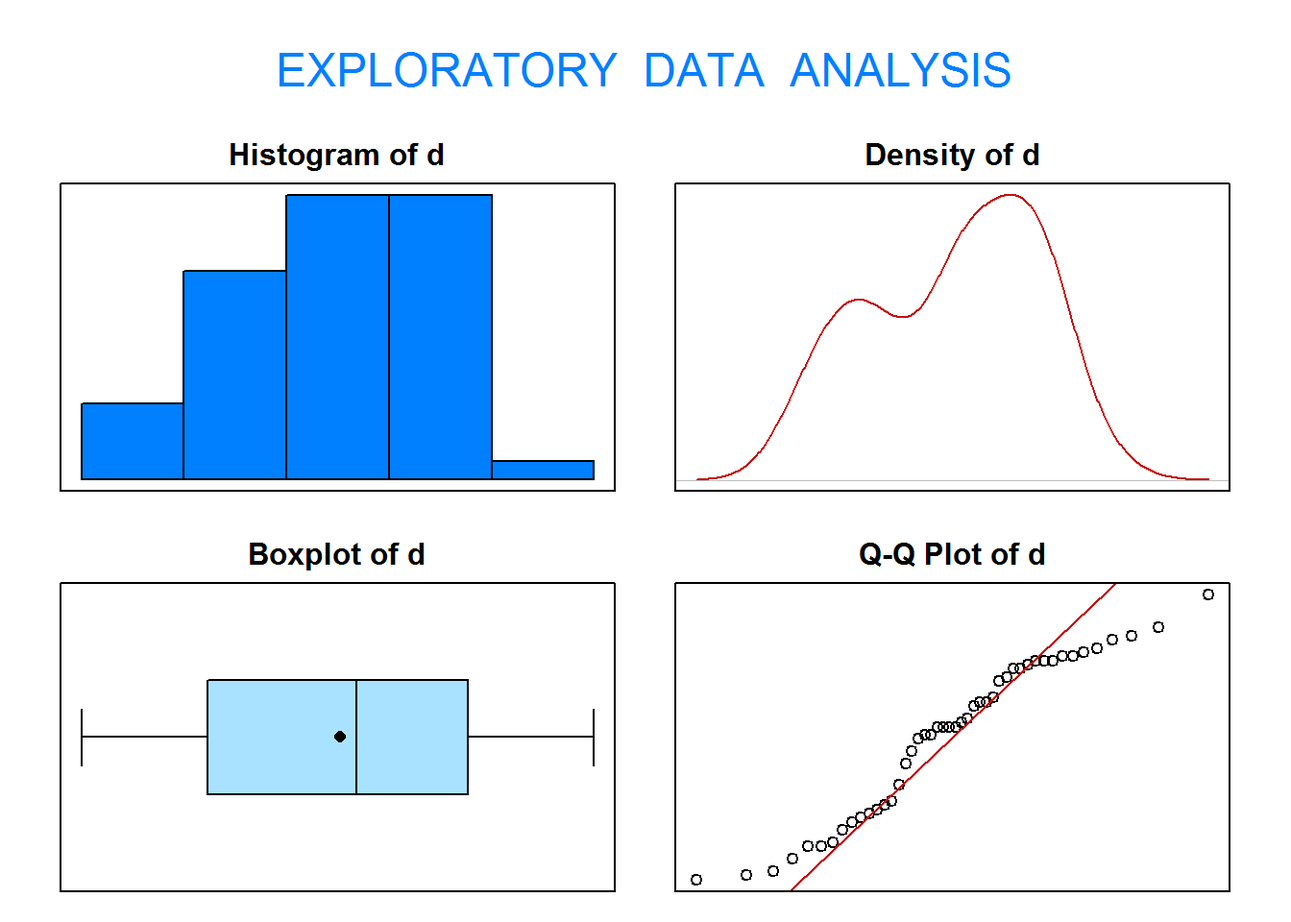
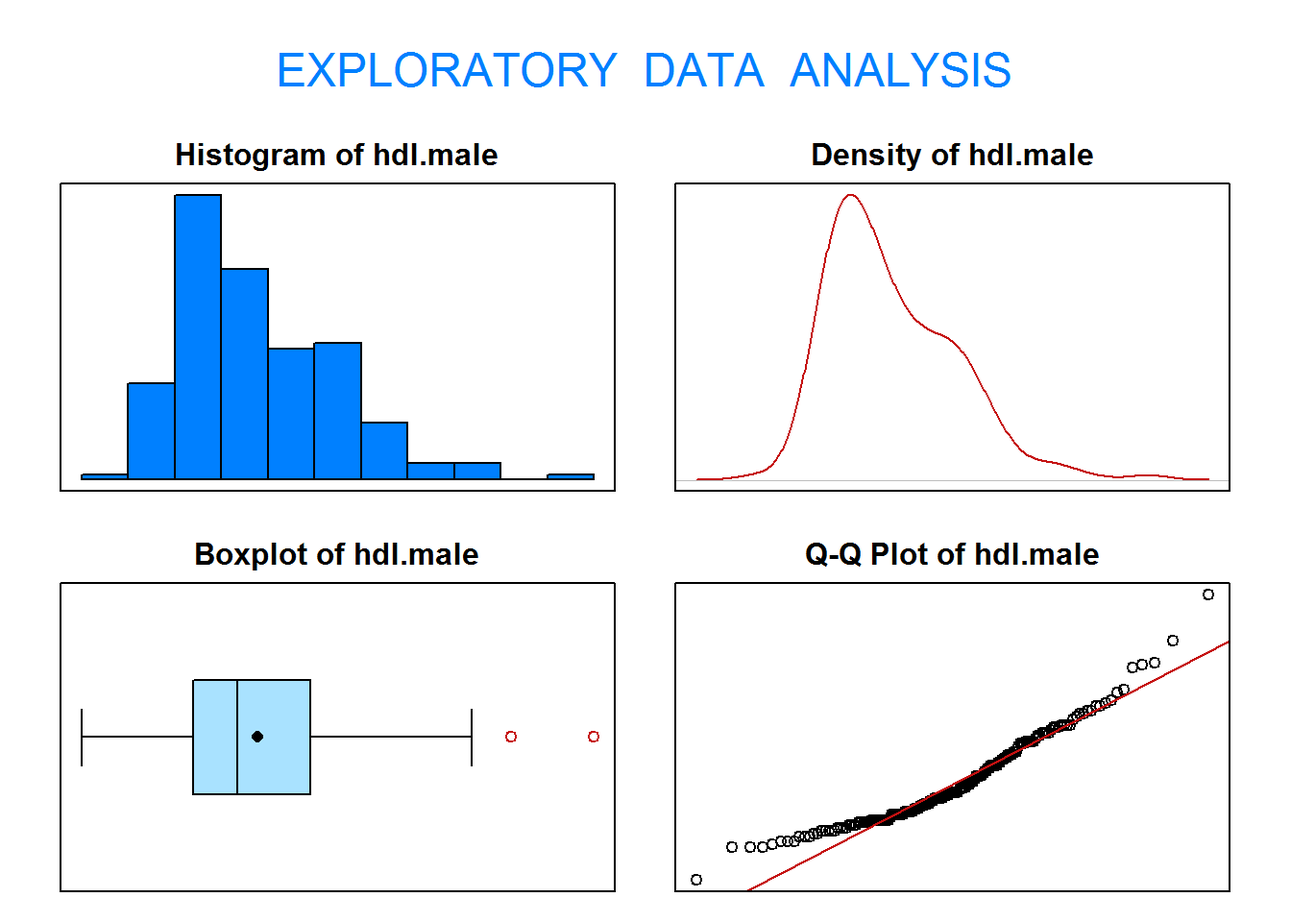
Soluciones práctica 4

diff --git a/docs/Practica4.html b/docs/Practica4.html
@@ -167,6 +167,11 @@ pre > code.sourceCode > span > a:first-child::before { text-decoration: underlin
   <li><a href="#considera-el-fichero-phenyl-de-la-libreria-paswr2.-contrasta-al-nivel-de-significación-alpha0.05-si-existen-diferencias-en-los-niveles-medios-de-la-coenzima-q10-en-el-momento-de-comenzar-el-estudio-variable-q10.1-y-al-finalizar-el-estudio-variable-q10.4." id="toc-considera-el-fichero-phenyl-de-la-libreria-paswr2.-contrasta-al-nivel-de-significación-alpha0.05-si-existen-diferencias-en-los-niveles-medios-de-la-coenzima-q10-en-el-momento-de-comenzar-el-estudio-variable-q10.1-y-al-finalizar-el-estudio-variable-q10.4." class="nav-link" data-scroll-target="#considera-el-fichero-phenyl-de-la-libreria-paswr2.-contrasta-al-nivel-de-significación-alpha0.05-si-existen-diferencias-en-los-niveles-medios-de-la-coenzima-q10-en-el-momento-de-comenzar-el-estudio-variable-q10.1-y-al-finalizar-el-estudio-variable-q10.4.">1.3. Considera el fichero <code>PHENYL</code> de la libreria <code>PASWR2</code>. Contrasta al nivel de significación <span class="math inline">\(\alpha=0.05\)</span> si existen diferencias en los niveles medios de la coenzima Q10 en el momento de comenzar el estudio (variable <code>Q10.1</code>) y al finalizar el estudio (variable <code>Q10.4</code>).</a></li>
   <li><a href="#considera-el-fichero-diabetes.-crea-otro-fichero-llamado-diabetes.mujeres-que-contenga-únicamente-a-las-mujeres-de-la-muestra." id="toc-considera-el-fichero-diabetes.-crea-otro-fichero-llamado-diabetes.mujeres-que-contenga-únicamente-a-las-mujeres-de-la-muestra." class="nav-link" data-scroll-target="#considera-el-fichero-diabetes.-crea-otro-fichero-llamado-diabetes.mujeres-que-contenga-únicamente-a-las-mujeres-de-la-muestra.">1.4 Considera el fichero <code>diabetes</code>. Crea otro fichero llamado <code>diabetes.mujeres</code> que contenga únicamente a las mujeres de la muestra.</a></li>
   </ul></li>
+  <li><a href="#para-entregar" id="toc-para-entregar" class="nav-link" data-scroll-target="#para-entregar">2. Para entregar</a>
+  <ul class="collapse">
+  <li><a href="#contrasta-al-nivel-de-significación-alpha0.05-si-el-peso-medio-de-los-hombres-es-al-menos-4-libras-pounds-superior-que-el-peso-medio-de-las-mujeres." id="toc-contrasta-al-nivel-de-significación-alpha0.05-si-el-peso-medio-de-los-hombres-es-al-menos-4-libras-pounds-superior-que-el-peso-medio-de-las-mujeres." class="nav-link" data-scroll-target="#contrasta-al-nivel-de-significación-alpha0.05-si-el-peso-medio-de-los-hombres-es-al-menos-4-libras-pounds-superior-que-el-peso-medio-de-las-mujeres.">2.1. Contrasta al nivel de significación <span class="math inline">\(\alpha=0.05\)</span> si el peso medio de los hombres es al menos 4 libras (pounds) superior que el peso medio de las mujeres.</a></li>
+  <li><a href="#considera-el-fichero-diabetes.-crea-otro-fichero-llamado-diabetes.b-que-contenga-únicamente-a-los-habitantes-del-condado-de-buckingham." id="toc-considera-el-fichero-diabetes.-crea-otro-fichero-llamado-diabetes.b-que-contenga-únicamente-a-los-habitantes-del-condado-de-buckingham." class="nav-link" data-scroll-target="#considera-el-fichero-diabetes.-crea-otro-fichero-llamado-diabetes.b-que-contenga-únicamente-a-los-habitantes-del-condado-de-buckingham.">2.2 Considera el fichero <code>diabetes</code>. Crea otro fichero llamado <code>diabetes.B</code> que contenga únicamente a los habitantes del condado de Buckingham.</a></li>
+  </ul></li>
   </ul>
 </nav>
     </div>
@@ -290,8 +295,10 @@ pre > code.sourceCode > span > a:first-child::before { text-decoration: underlin
 </table>
 <p>En primer lugar, debemos leer el fichero <code>diabetes</code> en R:</p>
 <div class="cell">
-<div class="sourceCode cell-code" id="cb1"><pre class="sourceCode r code-with-copy"><code class="sourceCode r"><span id="cb1-1"><a href="#cb1-1" aria-hidden="true" tabindex="-1"></a>diabetes <span class="ot">&lt;-</span> <span class="fu">read.table</span>(<span class="st">"diabetes.txt"</span>, <span class="at">header=</span><span class="cn">TRUE</span>, <span class="at">sep=</span><span class="st">""</span>, <span class="at">dec=</span><span class="st">"."</span>, <span class="at">stringsAsFactors=</span><span class="cn">TRUE</span>)</span>
-<span id="cb1-2"><a href="#cb1-2" aria-hidden="true" tabindex="-1"></a><span class="fu">head</span>(diabetes)</span></code><button title="Copy to Clipboard" class="code-copy-button"><i class="bi"></i></button></pre></div>
+<div class="sourceCode cell-code" id="cb1"><pre class="sourceCode r code-with-copy"><code class="sourceCode r"><span id="cb1-1"><a href="#cb1-1" aria-hidden="true" tabindex="-1"></a><span class="fu">library</span>(PASWR2)</span>
+<span id="cb1-2"><a href="#cb1-2" aria-hidden="true" tabindex="-1"></a></span>
+<span id="cb1-3"><a href="#cb1-3" aria-hidden="true" tabindex="-1"></a>diabetes <span class="ot">&lt;-</span> <span class="fu">read.table</span>(<span class="st">"diabetes.txt"</span>, <span class="at">header=</span><span class="cn">TRUE</span>, <span class="at">sep=</span><span class="st">""</span>, <span class="at">dec=</span><span class="st">"."</span>, <span class="at">stringsAsFactors=</span><span class="cn">TRUE</span>)</span>
+<span id="cb1-4"><a href="#cb1-4" aria-hidden="true" tabindex="-1"></a><span class="fu">head</span>(diabetes)</span></code><button title="Copy to Clipboard" class="code-copy-button"><i class="bi"></i></button></pre></div>
 <div class="cell-output cell-output-stdout">
 <pre><code>    id chol stab.glu hdl ratio glyhb   location age gender height weight  frame
 1 1000  203       82  56   3.6  4.31 Buckingham  46 female     62    121 medium
@@ -314,23 +321,268 @@ pre > code.sourceCode > span > a:first-child::before { text-decoration: underlin
 <h1>1. Pruebas no-paramétricas</h1>
 <section id="puede-asumirse-que-la-variable-hdl-en-mujeres-sigue-una-distribución-normal-contrasta-al-nivel-de-significación-alpha0.05-si-la-mediana-de-la-variable-hdl-en-mujeres-es-superior-a-47." class="level3">
 <h3 class="anchored" data-anchor-id="puede-asumirse-que-la-variable-hdl-en-mujeres-sigue-una-distribución-normal-contrasta-al-nivel-de-significación-alpha0.05-si-la-mediana-de-la-variable-hdl-en-mujeres-es-superior-a-47.">1.1. ¿Puede asumirse que la variable <code>hdl</code> en mujeres sigue una distribución normal? Contrasta al nivel de significación <span class="math inline">\(\alpha=0.05\)</span> si la mediana de la variable <code>hdl</code> en mujeres es superior a 47.</h3>
+<p>Definimos la variable <span class="math display">\[X=\mbox{"Nivel de 'hdl'  en mujeres"}\]</span></p>
+<div class="cell">
+<div class="sourceCode cell-code" id="cb3"><pre class="sourceCode r code-with-copy"><code class="sourceCode r"><span id="cb3-1"><a href="#cb3-1" aria-hidden="true" tabindex="-1"></a><span class="do">## Seleccionamos los datos requeridos ##</span></span>
+<span id="cb3-2"><a href="#cb3-2" aria-hidden="true" tabindex="-1"></a>pos <span class="ot">&lt;-</span> <span class="fu">which</span>(diabetes<span class="sc">$</span>gender<span class="sc">==</span><span class="st">"female"</span>)</span>
+<span id="cb3-3"><a href="#cb3-3" aria-hidden="true" tabindex="-1"></a>hdl.female <span class="ot">&lt;-</span> diabetes<span class="sc">$</span>hdl[pos]</span>
+<span id="cb3-4"><a href="#cb3-4" aria-hidden="true" tabindex="-1"></a></span>
+<span id="cb3-5"><a href="#cb3-5" aria-hidden="true" tabindex="-1"></a><span class="do">## Comprobamos la condición de normalidad ##</span></span>
+<span id="cb3-6"><a href="#cb3-6" aria-hidden="true" tabindex="-1"></a><span class="fu">eda</span>(hdl.female)</span></code><button title="Copy to Clipboard" class="code-copy-button"><i class="bi"></i></button></pre></div>
+<div class="cell-output-display">
+<p><img src="Practica4_files/figure-html/unnamed-chunk-2-1.png" class="img-fluid" width="672"></p>
+</div>
+<div class="cell-output cell-output-stdout">
+<pre><code>Size (n)  Missing  Minimum   1st Qu     Mean   Median   TrMean   3rd Qu 
+ 234.000    0.000   14.000   41.000   52.111   47.500   50.825   59.000 
+     Max    Stdev      Var  SE Mean   I.Q.R.    Range Kurtosis Skewness 
+ 120.000   17.255  297.739    1.128   18.000  106.000    2.443    1.390 
+SW p-val 
+   0.000 </code></pre>
+</div>
+</div>
+<p>Realizamos el test de Wilcoxon (<span class="math inline">\(\alpha=0.05\)</span>): <span class="math display">\[\begin{eqnarray*}
+H_0: \, \psi=47 \\
+H_1: \, \psi&gt;47 \\
+\end{eqnarray*}\]</span></p>
+<div class="cell">
+<div class="sourceCode cell-code" id="cb5"><pre class="sourceCode r code-with-copy"><code class="sourceCode r"><span id="cb5-1"><a href="#cb5-1" aria-hidden="true" tabindex="-1"></a><span class="fu">wilcox.test</span>(hdl.female, <span class="at">mu=</span><span class="dv">47</span>, <span class="at">alternative=</span><span class="st">"greater"</span>)</span></code><button title="Copy to Clipboard" class="code-copy-button"><i class="bi"></i></button></pre></div>
+<div class="cell-output cell-output-stdout">
+<pre><code>
+    Wilcoxon signed rank test with continuity correction
+
+data:  hdl.female
+V = 16282, p-value = 0.001492
+alternative hypothesis: true location is greater than 47</code></pre>
+</div>
+</div>
 </section>
 <section id="contrasta-al-nivel-de-significación-alpha0.05-si-existen-diferencias-entre-los-niveles-de-hdl-en-hombres-y-en-mujeres.-comprueba-si-puede-asumirse-normalidad-y-realiza-el-contraste-adecuado." class="level3">
 <h3 class="anchored" data-anchor-id="contrasta-al-nivel-de-significación-alpha0.05-si-existen-diferencias-entre-los-niveles-de-hdl-en-hombres-y-en-mujeres.-comprueba-si-puede-asumirse-normalidad-y-realiza-el-contraste-adecuado.">1.2. Contrasta al nivel de significación <span class="math inline">\(\alpha=0.05\)</span> si existen diferencias entre los niveles de <code>hdl</code> en hombres y en mujeres. Comprueba si puede asumirse normalidad y realiza el contraste adecuado.</h3>
+<p>Definimos las variables <span class="math display">\[X=\mbox{"Nivel de 'hdl'  en mujeres"}\]</span> <span class="math display">\[Y=\mbox{"Nivel de 'hdl'  en hombres"}\]</span></p>
+<div class="cell">
+<div class="sourceCode cell-code" id="cb7"><pre class="sourceCode r code-with-copy"><code class="sourceCode r"><span id="cb7-1"><a href="#cb7-1" aria-hidden="true" tabindex="-1"></a><span class="do">## Seleccionamos los datos requeridos ##</span></span>
+<span id="cb7-2"><a href="#cb7-2" aria-hidden="true" tabindex="-1"></a>pos1 <span class="ot">&lt;-</span> <span class="fu">which</span>(diabetes<span class="sc">$</span>gender<span class="sc">==</span><span class="st">"male"</span>)</span>
+<span id="cb7-3"><a href="#cb7-3" aria-hidden="true" tabindex="-1"></a>hdl.male <span class="ot">&lt;-</span> diabetes<span class="sc">$</span>hdl[pos1]</span>
+<span id="cb7-4"><a href="#cb7-4" aria-hidden="true" tabindex="-1"></a></span>
+<span id="cb7-5"><a href="#cb7-5" aria-hidden="true" tabindex="-1"></a>pos2 <span class="ot">&lt;-</span> <span class="fu">which</span>(diabetes<span class="sc">$</span>gender<span class="sc">==</span><span class="st">"female"</span>)</span>
+<span id="cb7-6"><a href="#cb7-6" aria-hidden="true" tabindex="-1"></a>hdl.female <span class="ot">&lt;-</span> diabetes<span class="sc">$</span>hdl[pos2]</span>
+<span id="cb7-7"><a href="#cb7-7" aria-hidden="true" tabindex="-1"></a></span>
+<span id="cb7-8"><a href="#cb7-8" aria-hidden="true" tabindex="-1"></a><span class="co"># Comprobamos la condición de normalidad</span></span>
+<span id="cb7-9"><a href="#cb7-9" aria-hidden="true" tabindex="-1"></a><span class="fu">eda</span>(hdl.male)</span></code><button title="Copy to Clipboard" class="code-copy-button"><i class="bi"></i></button></pre></div>
+<div class="cell-output-display">
+<p><img src="Practica4_files/figure-html/unnamed-chunk-4-1.png" class="img-fluid" width="672"></p>
+</div>
+<div class="cell-output cell-output-stdout">
+<pre><code>Size (n)  Missing  Minimum   1st Qu     Mean   Median   TrMean   3rd Qu 
+ 169.000    0.000   12.000   35.000   48.139   44.000   47.173   59.000 
+     Max    Stdev      Var  SE Mean   I.Q.R.    Range Kurtosis Skewness 
+ 117.000   17.004  289.141    1.308   24.000  105.000    1.001    0.934 
+SW p-val 
+   0.000 </code></pre>
+</div>
+<div class="sourceCode cell-code" id="cb9"><pre class="sourceCode r code-with-copy"><code class="sourceCode r"><span id="cb9-1"><a href="#cb9-1" aria-hidden="true" tabindex="-1"></a><span class="fu">eda</span>(hdl.female)</span></code><button title="Copy to Clipboard" class="code-copy-button"><i class="bi"></i></button></pre></div>
+<div class="cell-output-display">
+<p><img src="Practica4_files/figure-html/unnamed-chunk-4-2.png" class="img-fluid" width="672"></p>
+</div>
+<div class="cell-output cell-output-stdout">
+<pre><code>Size (n)  Missing  Minimum   1st Qu     Mean   Median   TrMean   3rd Qu 
+ 234.000    0.000   14.000   41.000   52.111   47.500   50.825   59.000 
+     Max    Stdev      Var  SE Mean   I.Q.R.    Range Kurtosis Skewness 
+ 120.000   17.255  297.739    1.128   18.000  106.000    2.443    1.390 
+SW p-val 
+   0.000 </code></pre>
+</div>
+</div>
+<p>Realizamos el test de Mann-Withney (<span class="math inline">\(\alpha=0.05\)</span>): <span class="math display">\[\begin{eqnarray*}
+H_0: \, \psi_X-\psi_Y=0 \\
+H_1: \, \psi_X-\psi_Y \neq 0 \\
+\end{eqnarray*}\]</span></p>
+<div class="cell">
+<div class="sourceCode cell-code" id="cb11"><pre class="sourceCode r code-with-copy"><code class="sourceCode r"><span id="cb11-1"><a href="#cb11-1" aria-hidden="true" tabindex="-1"></a><span class="fu">wilcox.test</span>(hdl.male, hdl.female, <span class="at">mu=</span><span class="dv">0</span>, <span class="at">alternative=</span><span class="st">"two.sided"</span>)</span></code><button title="Copy to Clipboard" class="code-copy-button"><i class="bi"></i></button></pre></div>
+<div class="cell-output cell-output-stdout">
+<pre><code>
+    Wilcoxon rank sum test with continuity correction
+
+data:  hdl.male and hdl.female
+W = 16630, p-value = 0.006439
+alternative hypothesis: true location shift is not equal to 0</code></pre>
+</div>
+</div>
 </section>
 <section id="considera-el-fichero-phenyl-de-la-libreria-paswr2.-contrasta-al-nivel-de-significación-alpha0.05-si-existen-diferencias-en-los-niveles-medios-de-la-coenzima-q10-en-el-momento-de-comenzar-el-estudio-variable-q10.1-y-al-finalizar-el-estudio-variable-q10.4." class="level3">
 <h3 class="anchored" data-anchor-id="considera-el-fichero-phenyl-de-la-libreria-paswr2.-contrasta-al-nivel-de-significación-alpha0.05-si-existen-diferencias-en-los-niveles-medios-de-la-coenzima-q10-en-el-momento-de-comenzar-el-estudio-variable-q10.1-y-al-finalizar-el-estudio-variable-q10.4.">1.3. Considera el fichero <code>PHENYL</code> de la libreria <code>PASWR2</code>. Contrasta al nivel de significación <span class="math inline">\(\alpha=0.05\)</span> si existen diferencias en los niveles medios de la coenzima Q10 en el momento de comenzar el estudio (variable <code>Q10.1</code>) y al finalizar el estudio (variable <code>Q10.4</code>).</h3>
+<p>Sean <span class="math display">\[X=\mbox{"Nivel de la coenzima Q10 al comienzo del estudio"}\]</span> <span class="math display">\[Y=\mbox{"Nivel de la coenzima Q10 al final del estudio"}\]</span></p>
+<div class="cell">
+<div class="sourceCode cell-code" id="cb13"><pre class="sourceCode r code-with-copy"><code class="sourceCode r"><span id="cb13-1"><a href="#cb13-1" aria-hidden="true" tabindex="-1"></a><span class="fu">head</span>(PHENYL)</span></code><button title="Copy to Clipboard" class="code-copy-button"><i class="bi"></i></button></pre></div>
+<div class="cell-output cell-output-stdout">
+<pre><code>  Q10.1 Q10.2 Q10.3 Q10.4
+1  0.39  0.56  0.65  0.45
+2  0.33  0.32  0.44  0.37
+3  0.59  0.58  0.38  0.55
+4  0.86  0.51  0.53  0.47
+5  0.33  0.29  0.29  0.28
+6  0.49  0.37  0.33  0.39</code></pre>
+</div>
+<div class="sourceCode cell-code" id="cb15"><pre class="sourceCode r code-with-copy"><code class="sourceCode r"><span id="cb15-1"><a href="#cb15-1" aria-hidden="true" tabindex="-1"></a><span class="co"># NOTA: Se tratan de muestran emparejadas (mismos individuos)</span></span>
+<span id="cb15-2"><a href="#cb15-2" aria-hidden="true" tabindex="-1"></a>d <span class="ot">&lt;-</span> PHENYL<span class="sc">$</span>Q10<span class="fl">.1</span><span class="sc">-</span>PHENYL<span class="sc">$</span>Q10<span class="fl">.4</span></span>
+<span id="cb15-3"><a href="#cb15-3" aria-hidden="true" tabindex="-1"></a></span>
+<span id="cb15-4"><a href="#cb15-4" aria-hidden="true" tabindex="-1"></a><span class="co"># Comprobamos la condición de normalidad</span></span>
+<span id="cb15-5"><a href="#cb15-5" aria-hidden="true" tabindex="-1"></a><span class="fu">eda</span>(d)</span></code><button title="Copy to Clipboard" class="code-copy-button"><i class="bi"></i></button></pre></div>
+<div class="cell-output-display">
+<p><img src="Practica4_files/figure-html/unnamed-chunk-6-1.png" class="img-fluid" width="672"></p>
+</div>
+<div class="cell-output cell-output-stdout">
+<pre><code>Size (n)  Missing  Minimum   1st Qu     Mean   Median   TrMean   3rd Qu 
+  46.000    0.000   -0.220   -0.048    0.122    0.100    0.120    0.298 
+     Max    Stdev      Var  SE Mean   I.Q.R.    Range Kurtosis Skewness 
+   0.470    0.190    0.036    0.028    0.346    0.690   -1.172    0.305 
+SW p-val 
+   0.022 </code></pre>
+</div>
+</div>
+<p>Realizamos el test de Wilcoxon para muestras emparejadas (<span class="math inline">\(\alpha=0.05\)</span>): <span class="math display">\[\begin{eqnarray*}
+H_0: \, \psi_D=0 \\
+H_1: \, \psi_D \neq 0 \\
+\end{eqnarray*}\]</span></p>
+<div class="cell">
+<div class="sourceCode cell-code" id="cb17"><pre class="sourceCode r code-with-copy"><code class="sourceCode r"><span id="cb17-1"><a href="#cb17-1" aria-hidden="true" tabindex="-1"></a><span class="fu">wilcox.test</span>(d, <span class="at">mu=</span><span class="dv">0</span>, <span class="at">alternative=</span><span class="st">"two.sided"</span>)</span></code><button title="Copy to Clipboard" class="code-copy-button"><i class="bi"></i></button></pre></div>
+<div class="cell-output cell-output-stderr">
+<pre><code>Warning in wilcox.test.default(d, mu = 0, alternative = "two.sided"): cannot
+compute exact p-value with ties</code></pre>
+</div>
+<div class="cell-output cell-output-stdout">
+<pre><code>
+    Wilcoxon signed rank test with continuity correction
+
+data:  d
+V = 857.5, p-value = 0.0005439
+alternative hypothesis: true location is not equal to 0</code></pre>
+</div>
+<div class="sourceCode cell-code" id="cb20"><pre class="sourceCode r code-with-copy"><code class="sourceCode r"><span id="cb20-1"><a href="#cb20-1" aria-hidden="true" tabindex="-1"></a><span class="co"># or</span></span>
+<span id="cb20-2"><a href="#cb20-2" aria-hidden="true" tabindex="-1"></a><span class="fu">wilcox.test</span>(PHENYL<span class="sc">$</span>Q10<span class="fl">.1</span>, PHENYL<span class="sc">$</span>Q10<span class="fl">.4</span>, <span class="at">mu=</span><span class="dv">0</span>, <span class="at">paired=</span><span class="cn">TRUE</span>, <span class="at">alternative=</span><span class="st">"two.sided"</span>)</span></code><button title="Copy to Clipboard" class="code-copy-button"><i class="bi"></i></button></pre></div>
+<div class="cell-output cell-output-stderr">
+<pre><code>Warning in wilcox.test.default(PHENYL$Q10.1, PHENYL$Q10.4, mu = 0, paired =
+TRUE, : cannot compute exact p-value with ties</code></pre>
+</div>
+<div class="cell-output cell-output-stdout">
+<pre><code>
+    Wilcoxon signed rank test with continuity correction
+
+data:  PHENYL$Q10.1 and PHENYL$Q10.4
+V = 857.5, p-value = 0.0005439
+alternative hypothesis: true location shift is not equal to 0</code></pre>
+</div>
+</div>
 </section>
 <section id="considera-el-fichero-diabetes.-crea-otro-fichero-llamado-diabetes.mujeres-que-contenga-únicamente-a-las-mujeres-de-la-muestra." class="level3">
 <h3 class="anchored" data-anchor-id="considera-el-fichero-diabetes.-crea-otro-fichero-llamado-diabetes.mujeres-que-contenga-únicamente-a-las-mujeres-de-la-muestra.">1.4 Considera el fichero <code>diabetes</code>. Crea otro fichero llamado <code>diabetes.mujeres</code> que contenga únicamente a las mujeres de la muestra.</h3>
+<div class="cell">
+<div class="sourceCode cell-code" id="cb23"><pre class="sourceCode r code-with-copy"><code class="sourceCode r"><span id="cb23-1"><a href="#cb23-1" aria-hidden="true" tabindex="-1"></a><span class="do">## Seleccionamos los datos de la mujeres ##</span></span>
+<span id="cb23-2"><a href="#cb23-2" aria-hidden="true" tabindex="-1"></a>pos <span class="ot">&lt;-</span> <span class="fu">which</span>(diabetes<span class="sc">$</span>gender<span class="sc">==</span><span class="st">"female"</span>)</span>
+<span id="cb23-3"><a href="#cb23-3" aria-hidden="true" tabindex="-1"></a>diabetes.female <span class="ot">&lt;-</span> diabetes[pos,]</span></code><button title="Copy to Clipboard" class="code-copy-button"><i class="bi"></i></button></pre></div>
+</div>
+<ul>
+<li>Contrasta al nivel de significación <span class="math inline">\(\alpha=0.05\)</span> si existen diferencias entre los niveles medios de glucosa glicosilada (<code>glyhb</code>) según la constitución del cuerpo (<code>frame</code>) entre las mujeres.</li>
+</ul>
+<div class="cell">
+<div class="sourceCode cell-code" id="cb24"><pre class="sourceCode r code-with-copy"><code class="sourceCode r"><span id="cb24-1"><a href="#cb24-1" aria-hidden="true" tabindex="-1"></a><span class="do">## Análisis exploratorio de los datos ##</span></span>
+<span id="cb24-2"><a href="#cb24-2" aria-hidden="true" tabindex="-1"></a><span class="fu">boxplot</span>(glyhb <span class="sc">~</span> frame, <span class="at">data=</span>diabetes)</span></code><button title="Copy to Clipboard" class="code-copy-button"><i class="bi"></i></button></pre></div>
+<div class="cell-output-display">
+<p><img src="Practica4_files/figure-html/unnamed-chunk-9-1.png" class="img-fluid" width="672"></p>
+</div>
+<div class="sourceCode cell-code" id="cb25"><pre class="sourceCode r code-with-copy"><code class="sourceCode r"><span id="cb25-1"><a href="#cb25-1" aria-hidden="true" tabindex="-1"></a><span class="do">## Análisis de la varianza con la función aov() ##</span></span>
+<span id="cb25-2"><a href="#cb25-2" aria-hidden="true" tabindex="-1"></a>glyhb.aov <span class="ot">&lt;-</span> <span class="fu">aov</span>(glyhb<span class="sc">~</span>frame, <span class="at">data=</span>diabetes.female)</span>
+<span id="cb25-3"><a href="#cb25-3" aria-hidden="true" tabindex="-1"></a><span class="fu">summary</span>(glyhb.aov)</span></code><button title="Copy to Clipboard" class="code-copy-button"><i class="bi"></i></button></pre></div>
+<div class="cell-output cell-output-stdout">
+<pre><code>             Df Sum Sq Mean Sq F value  Pr(&gt;F)   
+frame         2   40.4  20.207     4.7 0.00998 **
+Residuals   231  993.1   4.299                   
+---
+Signif. codes:  0 '***' 0.001 '**' 0.01 '*' 0.05 '.' 0.1 ' ' 1</code></pre>
+</div>
+<div class="sourceCode cell-code" id="cb27"><pre class="sourceCode r code-with-copy"><code class="sourceCode r"><span id="cb27-1"><a href="#cb27-1" aria-hidden="true" tabindex="-1"></a><span class="do">## Comprobamos las hipótesis del modelo ##</span></span>
+<span id="cb27-2"><a href="#cb27-2" aria-hidden="true" tabindex="-1"></a><span class="fu">checking.plots</span>(glyhb.aov)</span></code><button title="Copy to Clipboard" class="code-copy-button"><i class="bi"></i></button></pre></div>
+<div class="cell-output-display">
+<p><img src="Practica4_files/figure-html/unnamed-chunk-9-2.png" class="img-fluid" width="672"></p>
+</div>
+<div class="sourceCode cell-code" id="cb28"><pre class="sourceCode r code-with-copy"><code class="sourceCode r"><span id="cb28-1"><a href="#cb28-1" aria-hidden="true" tabindex="-1"></a>r <span class="ot">&lt;-</span> <span class="fu">rstandard</span>(glyhb.aov)</span>
+<span id="cb28-2"><a href="#cb28-2" aria-hidden="true" tabindex="-1"></a><span class="fu">shapiro.test</span>(r)             <span class="do">## Normalidad de los errores</span></span></code><button title="Copy to Clipboard" class="code-copy-button"><i class="bi"></i></button></pre></div>
+<div class="cell-output cell-output-stdout">
+<pre><code>
+    Shapiro-Wilk normality test
+
+data:  r
+W = 0.7235, p-value &lt; 2.2e-16</code></pre>
+</div>
+<div class="sourceCode cell-code" id="cb30"><pre class="sourceCode r code-with-copy"><code class="sourceCode r"><span id="cb30-1"><a href="#cb30-1" aria-hidden="true" tabindex="-1"></a><span class="fu">library</span>(car)</span></code><button title="Copy to Clipboard" class="code-copy-button"><i class="bi"></i></button></pre></div>
+<div class="cell-output cell-output-stderr">
+<pre><code>Loading required package: carData</code></pre>
+</div>
+<div class="sourceCode cell-code" id="cb32"><pre class="sourceCode r code-with-copy"><code class="sourceCode r"><span id="cb32-1"><a href="#cb32-1" aria-hidden="true" tabindex="-1"></a><span class="fu">leveneTest</span>(glyhb.aov)       <span class="do">## Test de Levene para homogeneidad de varianzas</span></span></code><button title="Copy to Clipboard" class="code-copy-button"><i class="bi"></i></button></pre></div>
+<div class="cell-output cell-output-stdout">
+<pre><code>Levene's Test for Homogeneity of Variance (center = median)
+       Df F value Pr(&gt;F)
+group   2  1.0362 0.3564
+      231               </code></pre>
+</div>
+<div class="sourceCode cell-code" id="cb34"><pre class="sourceCode r code-with-copy"><code class="sourceCode r"><span id="cb34-1"><a href="#cb34-1" aria-hidden="true" tabindex="-1"></a><span class="do">## Como no se cumplen las hipótesis del modelo, realizamos el test de Kruskal-Wallis</span></span>
+<span id="cb34-2"><a href="#cb34-2" aria-hidden="true" tabindex="-1"></a><span class="fu">kruskal.test</span>(glyhb<span class="sc">~</span>frame, <span class="at">data=</span>diabetes.female)</span></code><button title="Copy to Clipboard" class="code-copy-button"><i class="bi"></i></button></pre></div>
+<div class="cell-output cell-output-stdout">
+<pre><code>
+    Kruskal-Wallis rank sum test
+
+data:  glyhb by frame
+Kruskal-Wallis chi-squared = 20.111, df = 2, p-value = 4.295e-05</code></pre>
+</div>
+</div>
+<ul>
+<li>Si has detectado diferencias, averigua entre qué grupos existen diferencias estadísticamente significativas.</li>
+</ul>
+<div class="cell">
+<div class="sourceCode cell-code" id="cb36"><pre class="sourceCode r code-with-copy"><code class="sourceCode r"><span id="cb36-1"><a href="#cb36-1" aria-hidden="true" tabindex="-1"></a><span class="fu">library</span>(agricolae)</span>
+<span id="cb36-2"><a href="#cb36-2" aria-hidden="true" tabindex="-1"></a></span>
+<span id="cb36-3"><a href="#cb36-3" aria-hidden="true" tabindex="-1"></a><span class="fu">kruskal</span>(diabetes.female<span class="sc">$</span>glyhb, diabetes.female<span class="sc">$</span>frame, <span class="at">alpha=</span><span class="fl">0.05</span>, <span class="at">group=</span><span class="cn">FALSE</span>, <span class="at">console=</span><span class="cn">TRUE</span>)</span></code><button title="Copy to Clipboard" class="code-copy-button"><i class="bi"></i></button></pre></div>
+<div class="cell-output cell-output-stdout">
+<pre><code>
+Study: diabetes.female$glyhb ~ diabetes.female$frame
+Kruskal-Wallis test's
+Ties or no Ties
+
+Critical Value: 20.11077
+Degrees of freedom: 2
+Pvalue Chisq  : 4.295381e-05 
+
+diabetes.female$frame,  means of the ranks
+
+       diabetes.female.glyhb   r
+large              157.07143  42
+medium             114.76423 123
+small               98.28986  69
+
+Post Hoc Analysis
+
+Comparison between treatments mean of the ranks.
+
+               Difference pvalue Signif.       LCL      UCL
+large - medium   42.30720 0.0003     *** 19.424803 65.18960
+large - small    58.78157 0.0000     *** 33.723420 83.83973
+medium - small   16.47437 0.0932       . -2.783587 35.73233</code></pre>
+</div>
+</div>
+</section>
+</section>
+<section id="para-entregar" class="level1">
+<h1>2. Para entregar</h1>
+<section id="contrasta-al-nivel-de-significación-alpha0.05-si-el-peso-medio-de-los-hombres-es-al-menos-4-libras-pounds-superior-que-el-peso-medio-de-las-mujeres." class="level3">
+<h3 class="anchored" data-anchor-id="contrasta-al-nivel-de-significación-alpha0.05-si-el-peso-medio-de-los-hombres-es-al-menos-4-libras-pounds-superior-que-el-peso-medio-de-las-mujeres.">2.1. Contrasta al nivel de significación <span class="math inline">\(\alpha=0.05\)</span> si el peso medio de los hombres es al menos 4 libras (pounds) superior que el peso medio de las mujeres.</h3>
+</section>
+<section id="considera-el-fichero-diabetes.-crea-otro-fichero-llamado-diabetes.b-que-contenga-únicamente-a-los-habitantes-del-condado-de-buckingham." class="level3">
+<h3 class="anchored" data-anchor-id="considera-el-fichero-diabetes.-crea-otro-fichero-llamado-diabetes.b-que-contenga-únicamente-a-los-habitantes-del-condado-de-buckingham.">2.2 Considera el fichero <code>diabetes</code>. Crea otro fichero llamado <code>diabetes.B</code> que contenga únicamente a los habitantes del condado de Buckingham.</h3>
 <ul>
 <li><p>Contrasta al nivel de significación <span class="math inline">\(\alpha=0.05\)</span> si existen diferencias entre los niveles medios de glucosa glicosilada (<code>glyhb</code>) según la constitución del cuerpo (<code>frame</code>) entre las mujeres.</p></li>
 <li><p>Si has detectado diferencias, averigua entre qué grupos existen diferencias estadísticamente significativas.</p></li>
 </ul>
-<!-- # 2. Para entregar -->
-<!-- ### 2.1 Considera el fichero `diabetes`. Crea otro fichero llamado `diabetes.B` que contenga únicamente a los habitantes del condado de Buckingham. -->
-<!-- - Contrasta al nivel de significación $\alpha=0.05$ si existen diferencias entre los niveles medios de glucosa glicosilada (`glyhb`) según la constitución del cuerpo (`frame`) entre las mujeres. -->
-<!-- - Si has detectado diferencias, averigua entre qué grupos existen diferencias estadísticamente significativas. -->
 
 
 </section>
